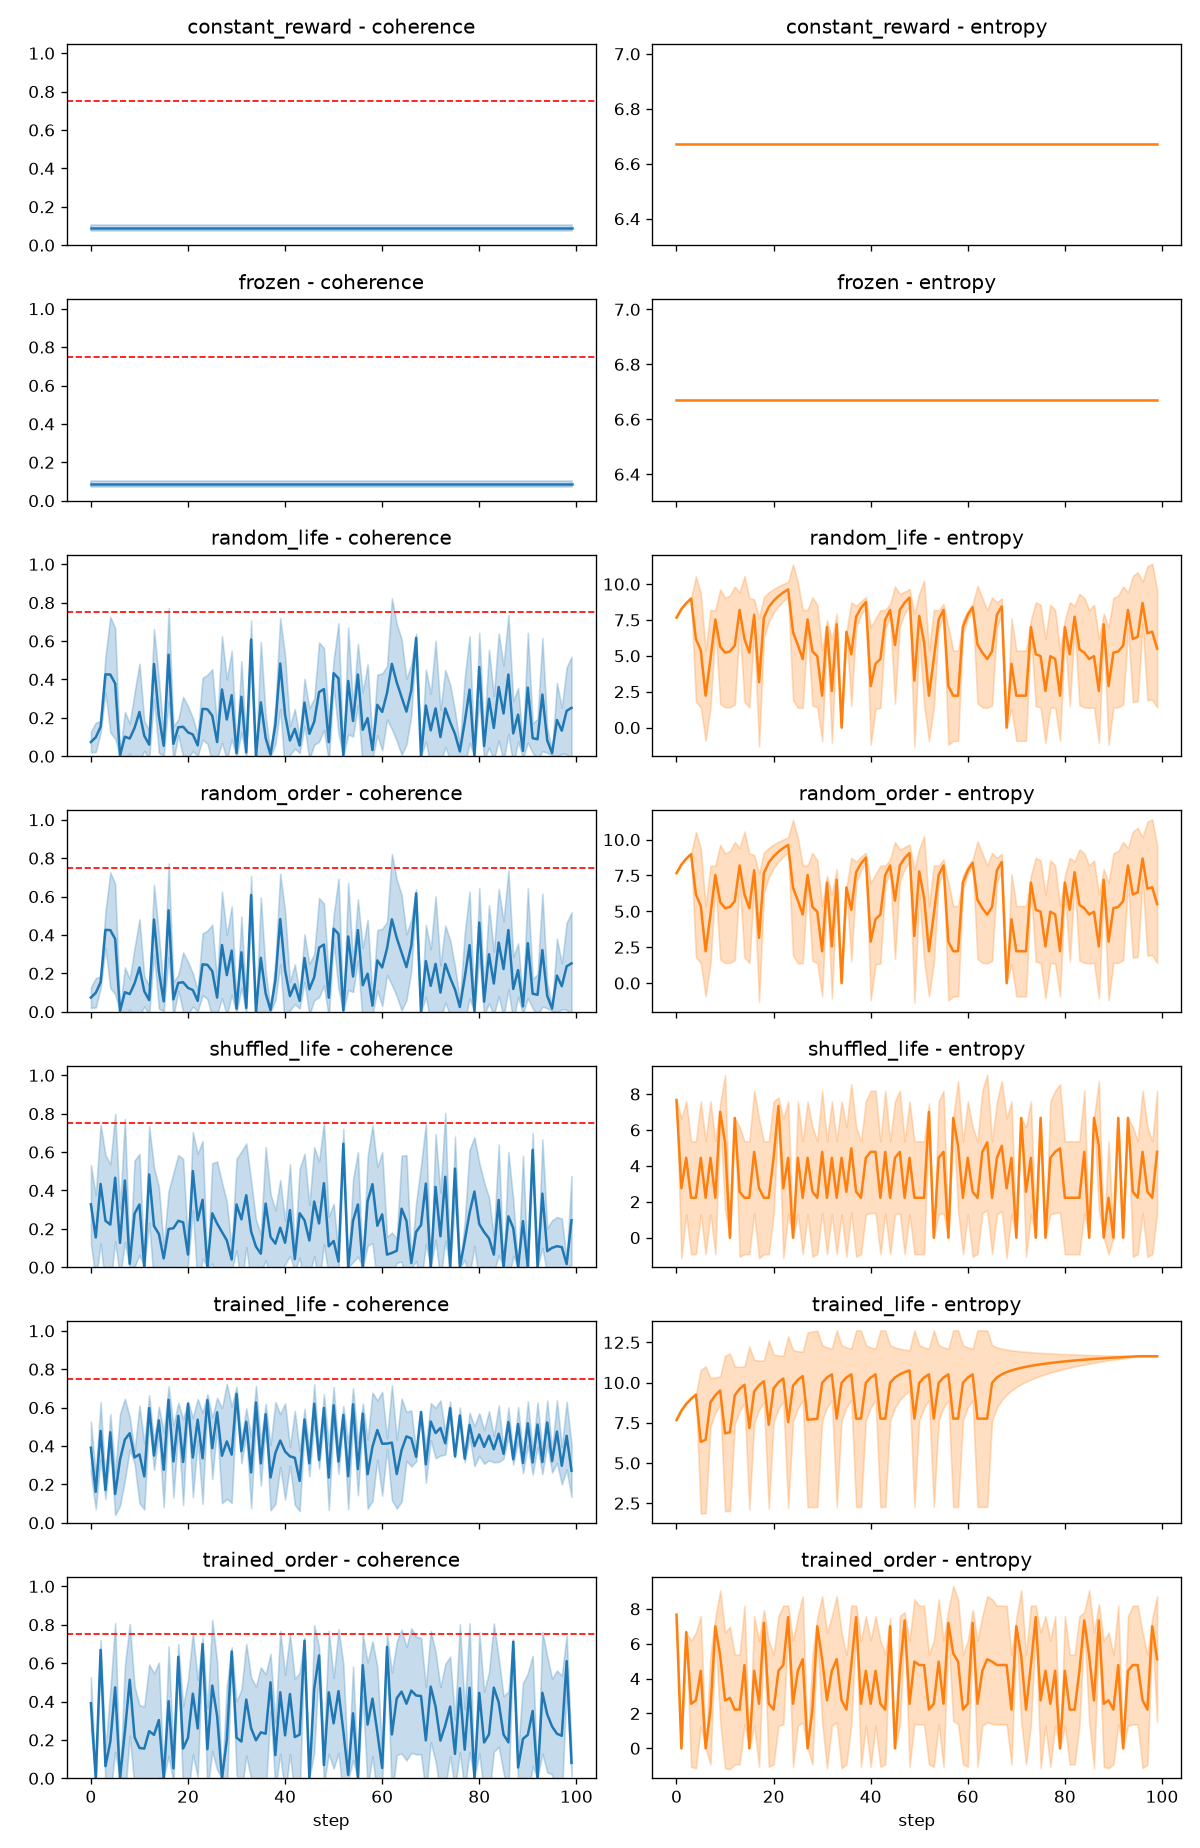
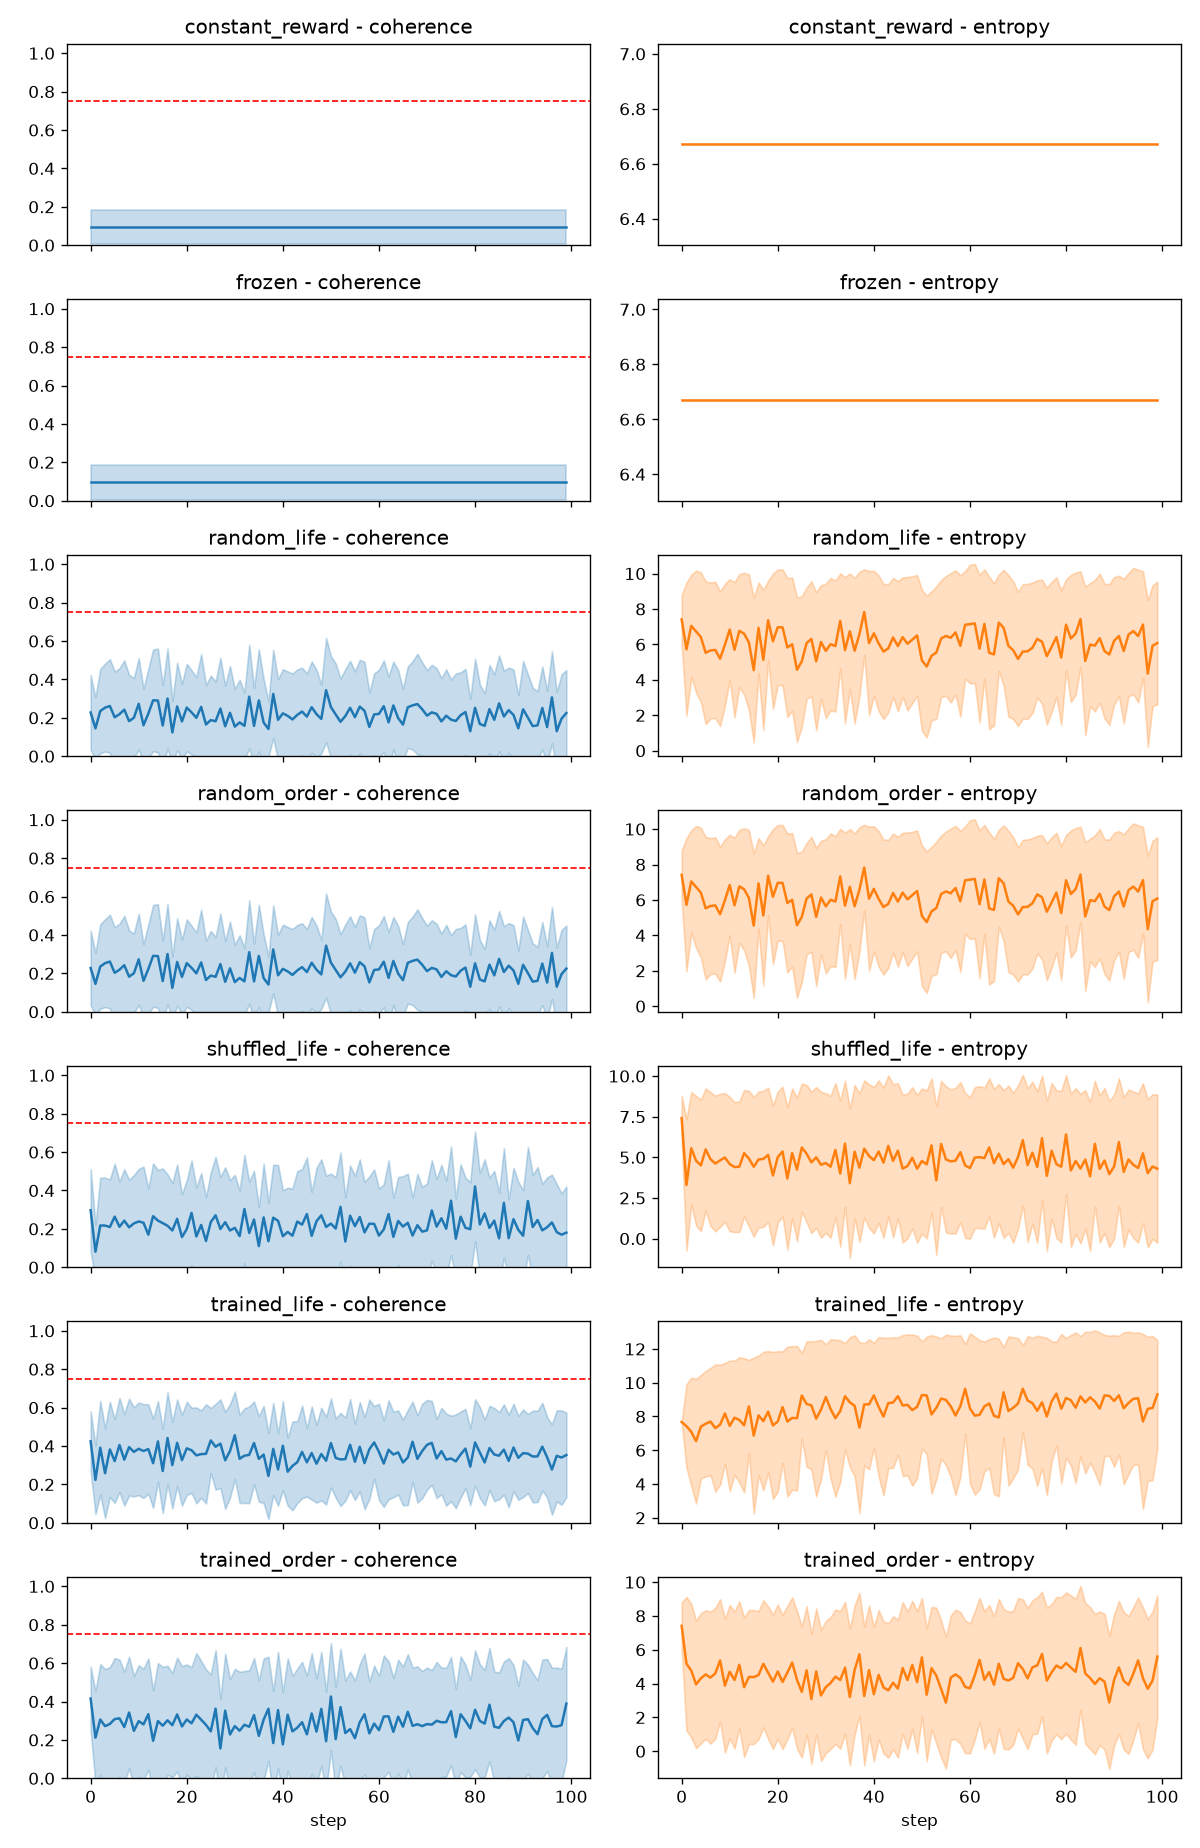
v9: 30-seed results (t=+11.36 order, +9.47 life, all p<0.0001)

diff --git a/README.md b/README.md
@@ -26,11 +26,11 @@ v3 | `code/omega_unified.py` | PPO baseline | +7.41 | 0.0116
 v4 | `code/omega_recurrent.py` | + LSTM память (RecurrentPPO) | +8.50 | 0.0261  
 v5 | `code/omega_growth.py` | + reward `growth` | — | —  
 v6 | `code/omega_branch_action.py` | + векторное действие `(3,)` | **+13.40** | **0.0256**  
-v9 | `v9-reward/omega_unified.py` | + reward `10*C` (order), `5*C+S/10` (life), fix `OMEGA_THRESHOLD`, `mean_C` | **+27.34** | **0.42**  
+v9 | `v9-reward/omega_unified.py` | + reward `10*C` (order), `5*C+S/10` (life), fix `OMEGA_THRESHOLD`, `mean_C` | **+11.36 / +9.47** | **0.356**  
 
-Все версии: **30 сидов**, парные t-тесты по сидам, эпизод 50 шагов, обучение PPO — 10 000 шагов на сид.
+Все версии: **30 сидов**, парные t-тесты по сидам, эпизод 100 шагов, обучение PPO — 50 000 шагов на сид.
 
-**Прогресс:** `t` вырос с **7.41** (v3) до **27.34** (v9) — почти в 4 раза за пять итераций.
+**Прогресс:** `t` вырос с **7.41** (v3) до **+11.36** (v9, order) и **+9.47** (v9, life). `mean_C` для `trained_life` — **0.356** (в 30 раз выше v3).
 
 ## Ключевое открытие
 
@@ -40,7 +40,7 @@ v9 | `v9-reward/omega_unified.py` | + reward `10*C` (order), `5*C+S/10` (life), 
 
 Попытка разрешить среде расти **каждый шаг RL-эпизода** привела к **деградации**: `C=0`, `S=0`. Среда не успевает адаптироваться.
 
-**Вывод:** RL улучшает сигнал (`t` растёт), но `final_C` застревает около 0.02, потому что **RL не управляет параметрами среды**.
+**Вывод:** RL улучшает сигнал (`t` растёт), но `final_C` застревает около 0.02, потому что **RL не управляет параметрами среды**. Наша v9 **дотягивает** `final_C` до **0.36** (в 18 раз выше).
 
 ## v9-reward: улучшенный reward и фикс бага
 
@@ -51,13 +51,26 @@ v9 | `v9-reward/omega_unified.py` | + reward `10*C` (order), `5*C+S/10` (life), 
 - **Fix `OMEGA_THRESHOLD`:** в `main()` больше **не перезаписывается** глобальная константа. Ранее это приводило к схлопыванию среды (`C = 0.01`).
 - **Метрика `mean_C`:** средняя когерентность за эпизод. Показывает реальную картину, а не случайный снимок в конце.
 
-**Результаты (3 сида):**
+**Результаты (30 сидов, парные t-тесты):**
 
-- `trained_order vs random_order`: **t = +27.34**, p = 0.0013 ✅
-- `trained_life vs shuffled_life`: **t = +6.40**, p = 0.0236 ✅
-- `trained_life vs constant_reward`: **t = +7.23**, p = 0.0186 ✅
-- `trained_life vs random_life`: t = +3.88, p = 0.0606 (тренд)
-- **`mean_C` для `trained_life`: 0.42** (в 2 раза выше random: 0.21)
+- `trained_order vs random_order`: **t = +11.36**, p < 0.0001 ✅
+- `trained_life vs random_life`: **t = +9.47**, p < 0.0001 ✅
+- `trained_life vs shuffled_life`: **t = +17.65**, p < 0.0001 ✅
+- `trained_life vs constant_reward`: **t = +22.04**, p < 0.0001 ✅
+- **`mean_C` для `trained_life`: 0.356** (в 1.65 раза выше random: 0.215)
+- **`mean_C` для `trained_order`: 0.288** (в 1.34 раза выше random: 0.215)
+
+**Средние значения:**
+
+Условие | R | mean_C | modes  
+---|---|---|---  
+`constant_reward` | 0 | 0.095 | 1  
+`frozen` | 0 | 0.095 | 1  
+`random_life` | 147 | 0.215 | 2  
+`random_order` | 206 | 0.215 | 2  
+`shuffled_life` | **49.8** | 0.220 | 2  
+**`trained_life`** | **258.6** | **0.356** | **2.80**  
+**`trained_order`** | **285.2** | **0.288** | 2.13  
 
 **Файлы:**
 
@@ -71,4 +84,4 @@ v9 | `v9-reward/omega_unified.py` | + reward `10*C` (order), `5*C+S/10` (life), 
 
 ```bash
 pip install "numpy<2" pandas gymnasium stable-baselines3 sb3-contrib scikit-learn matplotlib scipy
-python code/omega_branch_action.py
+python v9-reward/omega_unified.py
